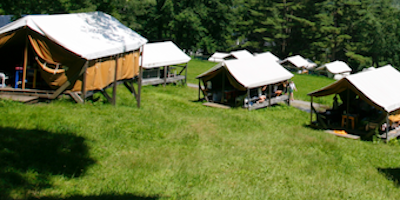
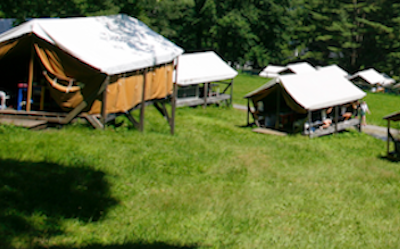
fixes

diff --git a/_posts/outdoor-programmer/2020-05-10-first-post.md b/_posts/outdoor-programmer/2020-05-10-first-post.md
@@ -7,7 +7,7 @@ tags: [outdoor-programmer]
 image:
   feature: &image tent-800x800.png
   path: *image
-  teaser: tent_location.jpg
+  teaser: tent-400x250.png
 comments: true
 ads: false
 share: false
